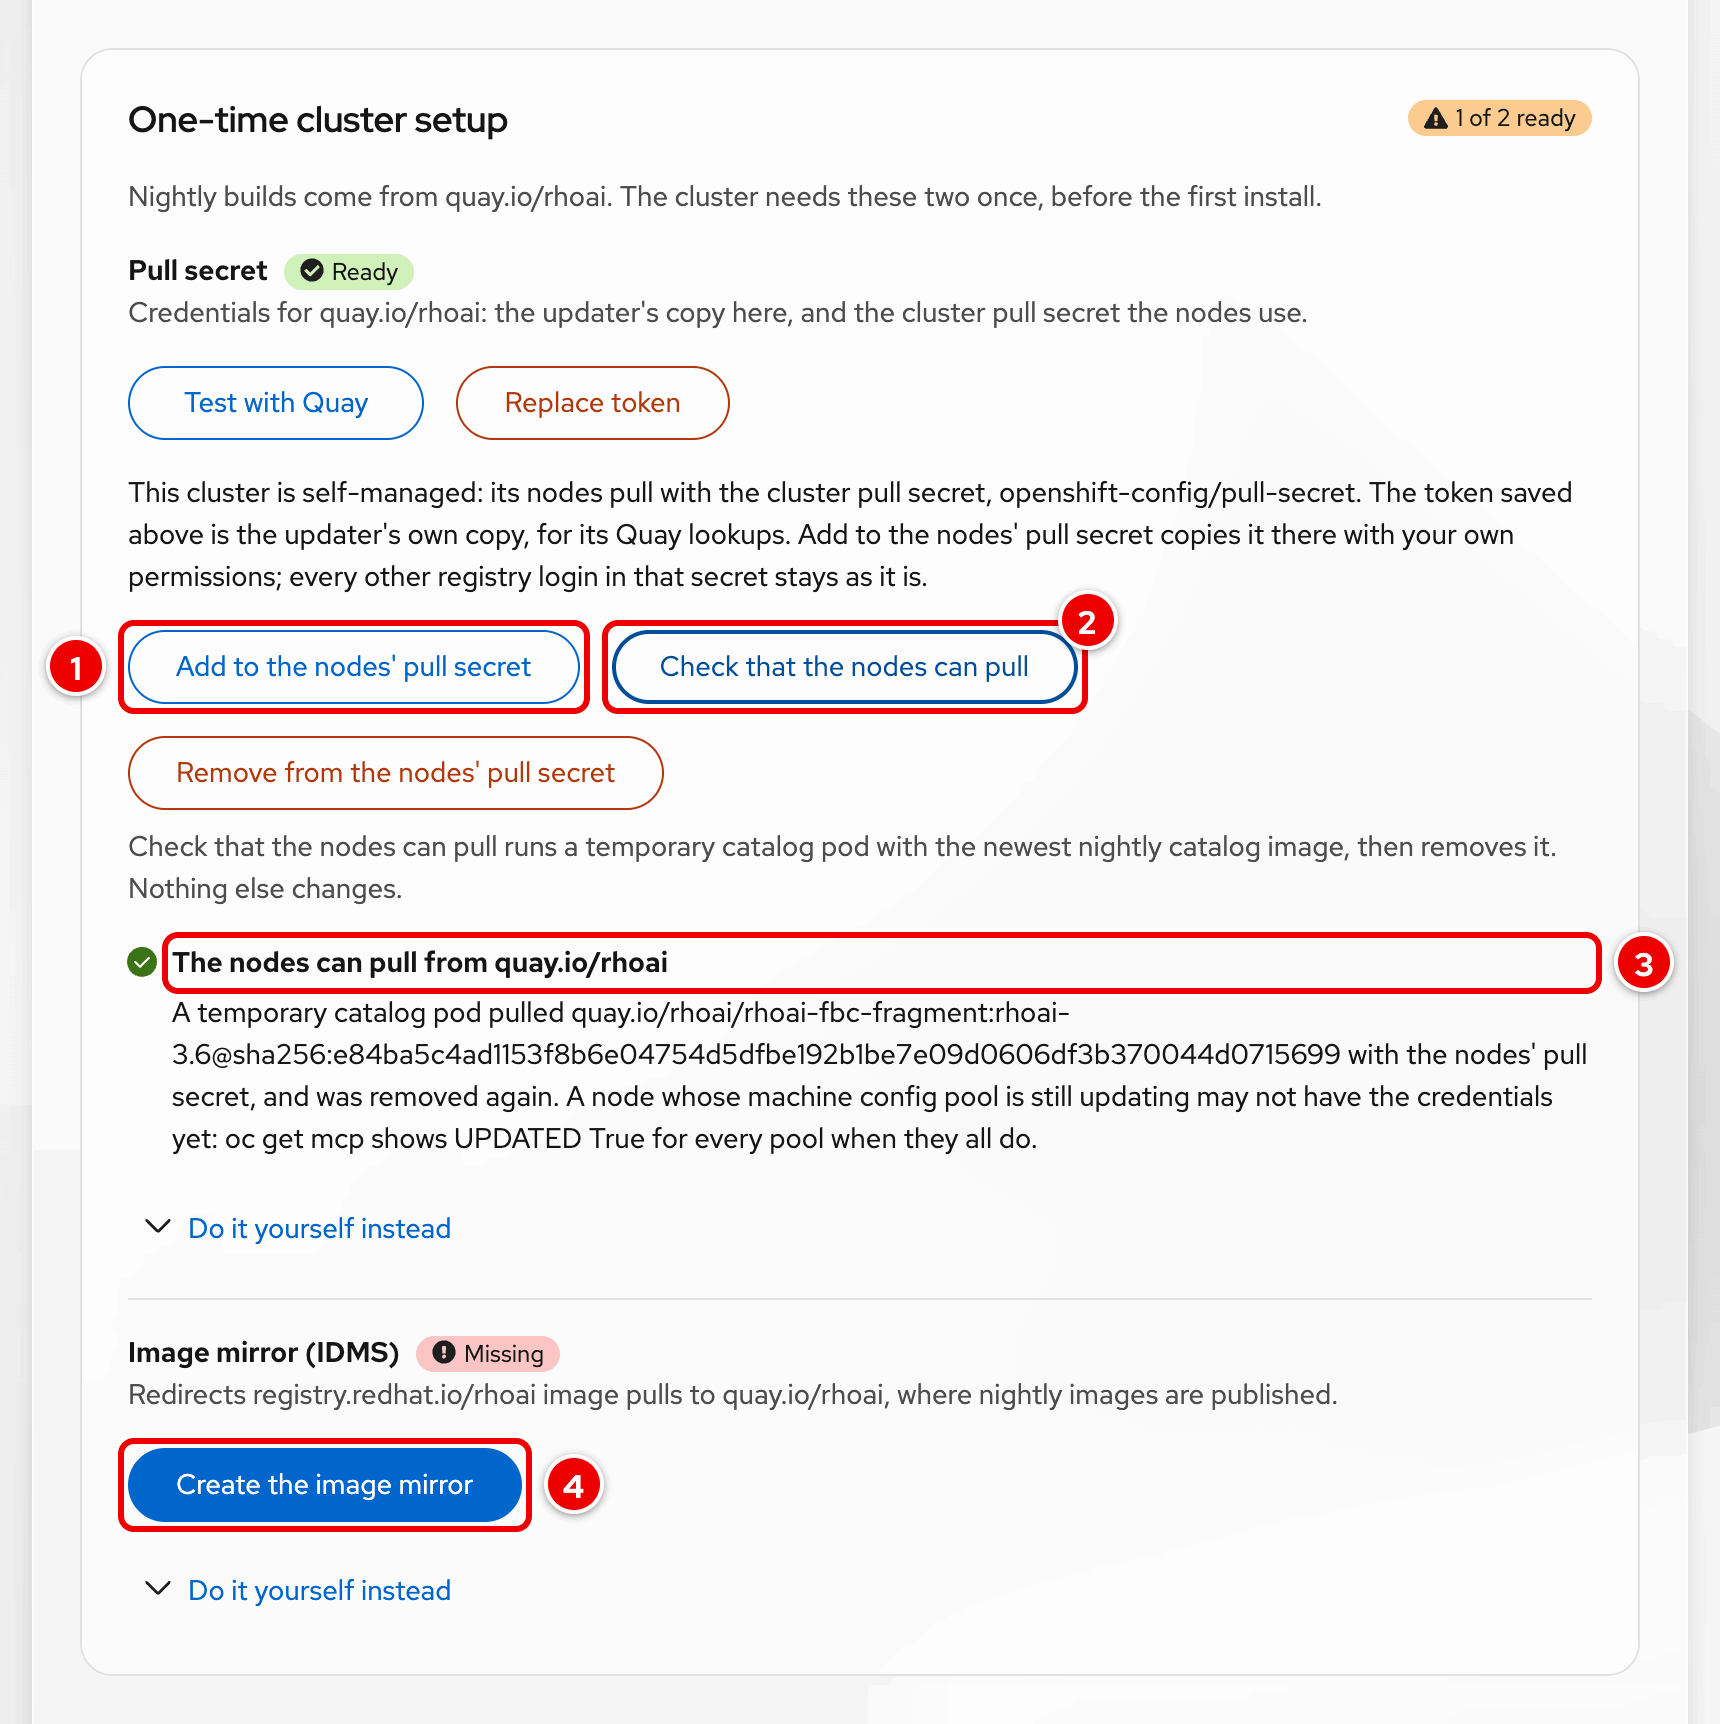
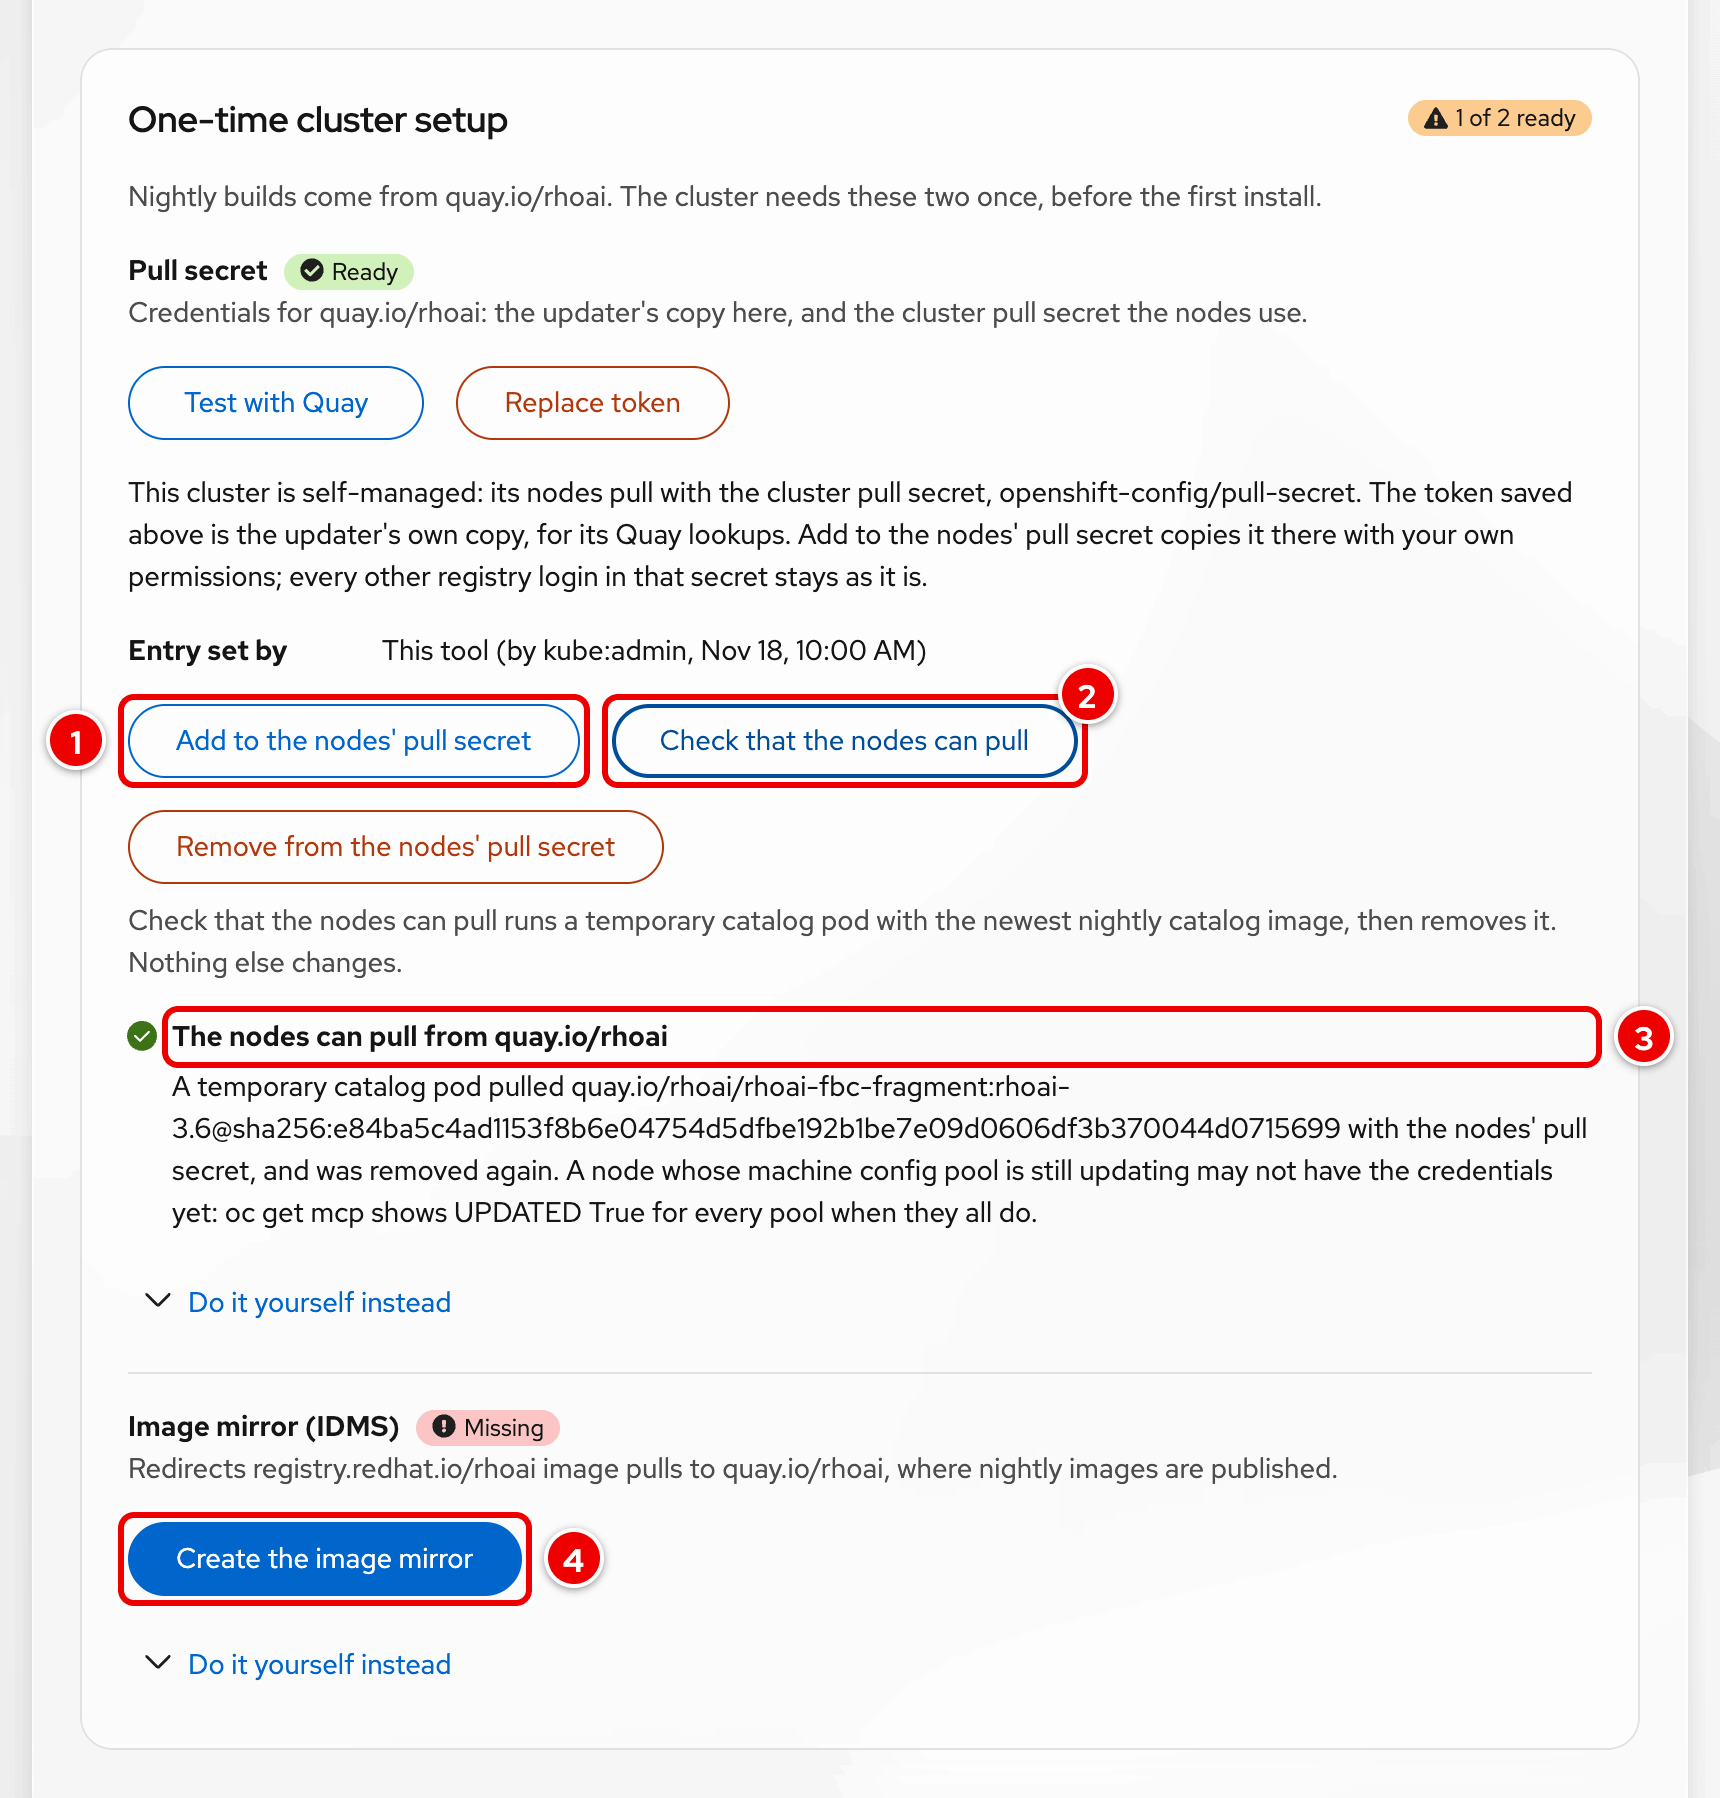
docs(images): self-managed cluster setup with who set the nodes' entry

diff --git a/docs/tools/capture.js b/docs/tools/capture.js
@@ -666,8 +666,8 @@ async (page) => {
       });
 
       // Self-managed OpenShift after step 1: one click for the nodes' pull
-      // secret and the image mirror, and the nodes' check.
-      await open("/", "self-managed-mirror");
+      // secret (added by this tool: its record) and the image mirror, and the nodes' check.
+      await open("/", "self-managed-mirror-added");
       const selfManaged = card("One-time cluster setup");
       await selfManaged.getByRole("button", { name: "Check that the nodes can pull" }).click();
       await selfManaged.locator(".pf-v6-c-alert__title", { hasText: "The nodes can pull from quay.io/rhoai" }).waitFor();
